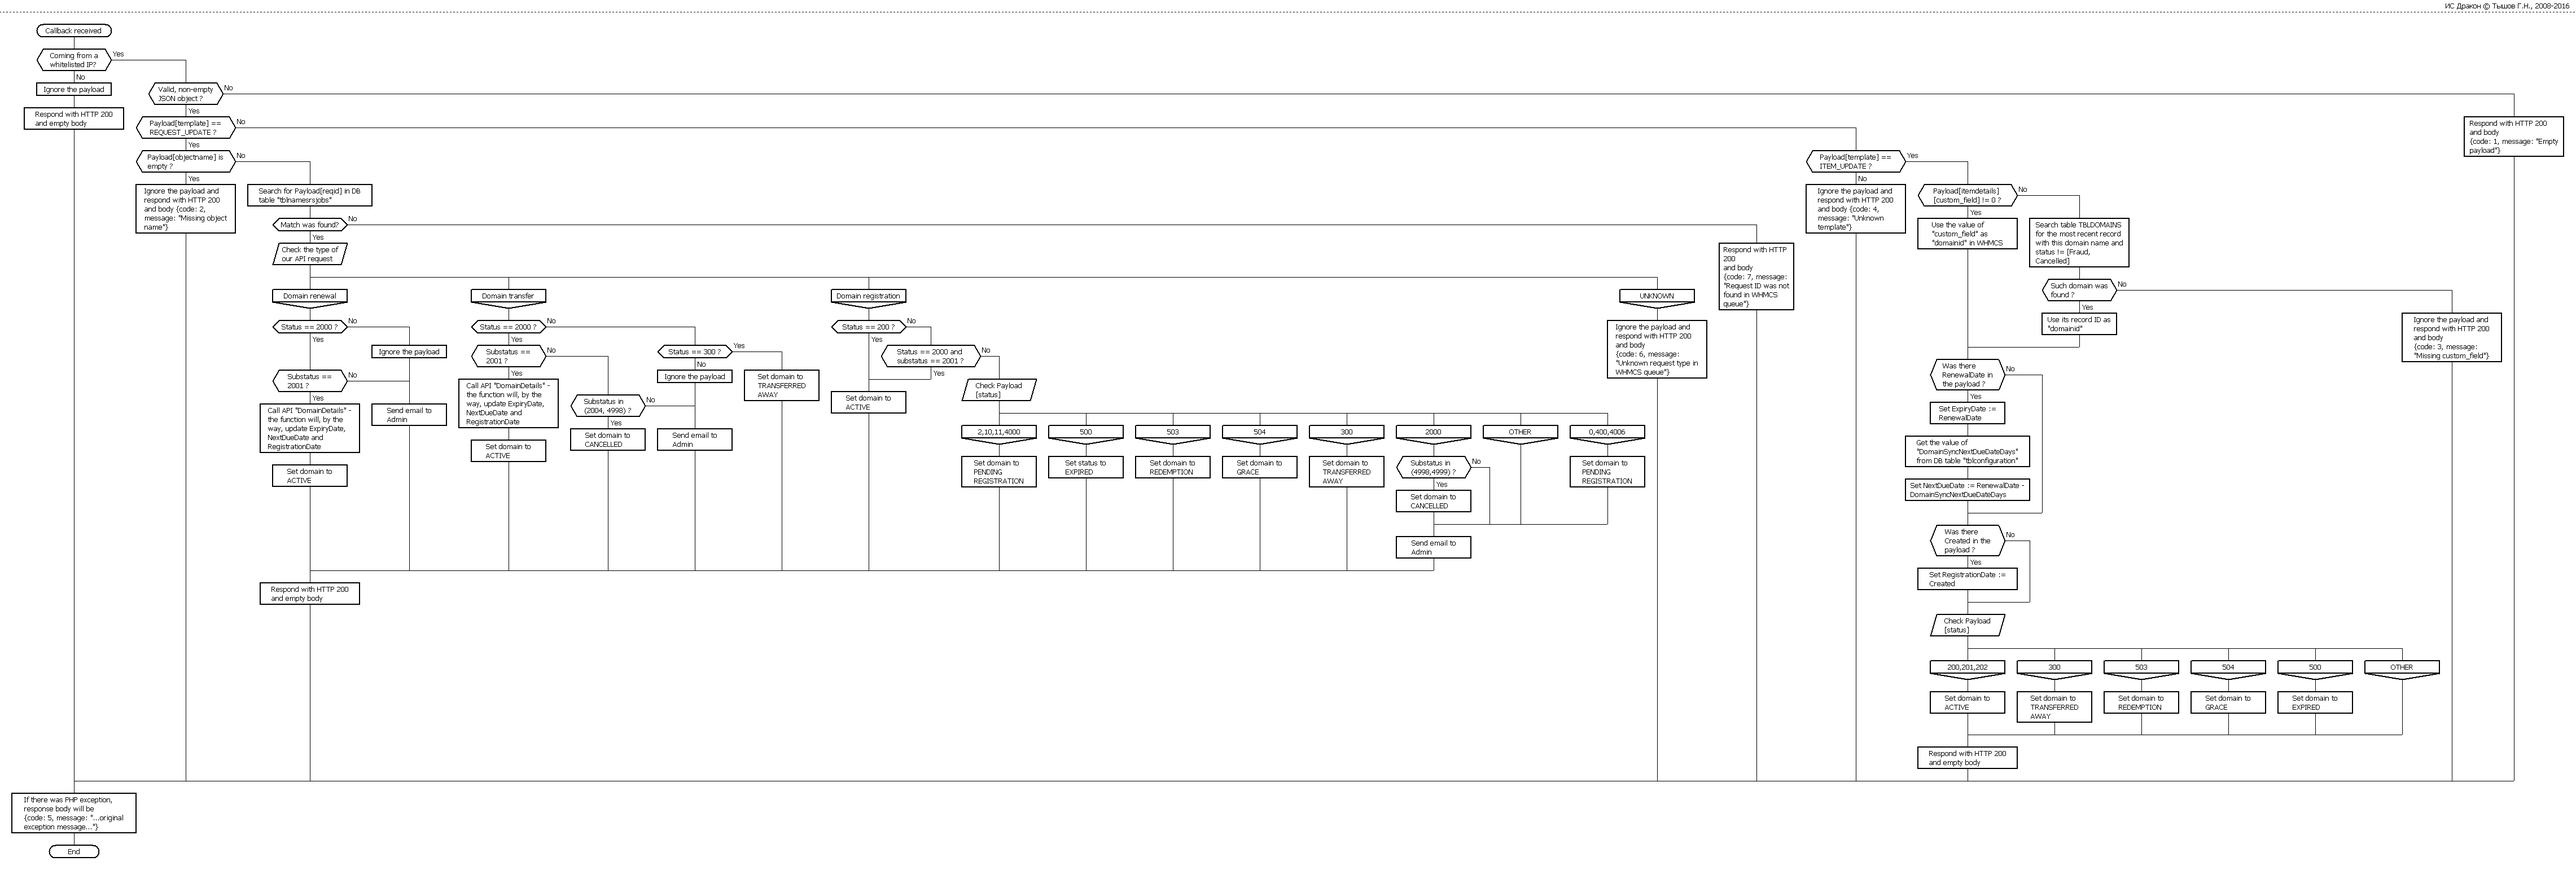
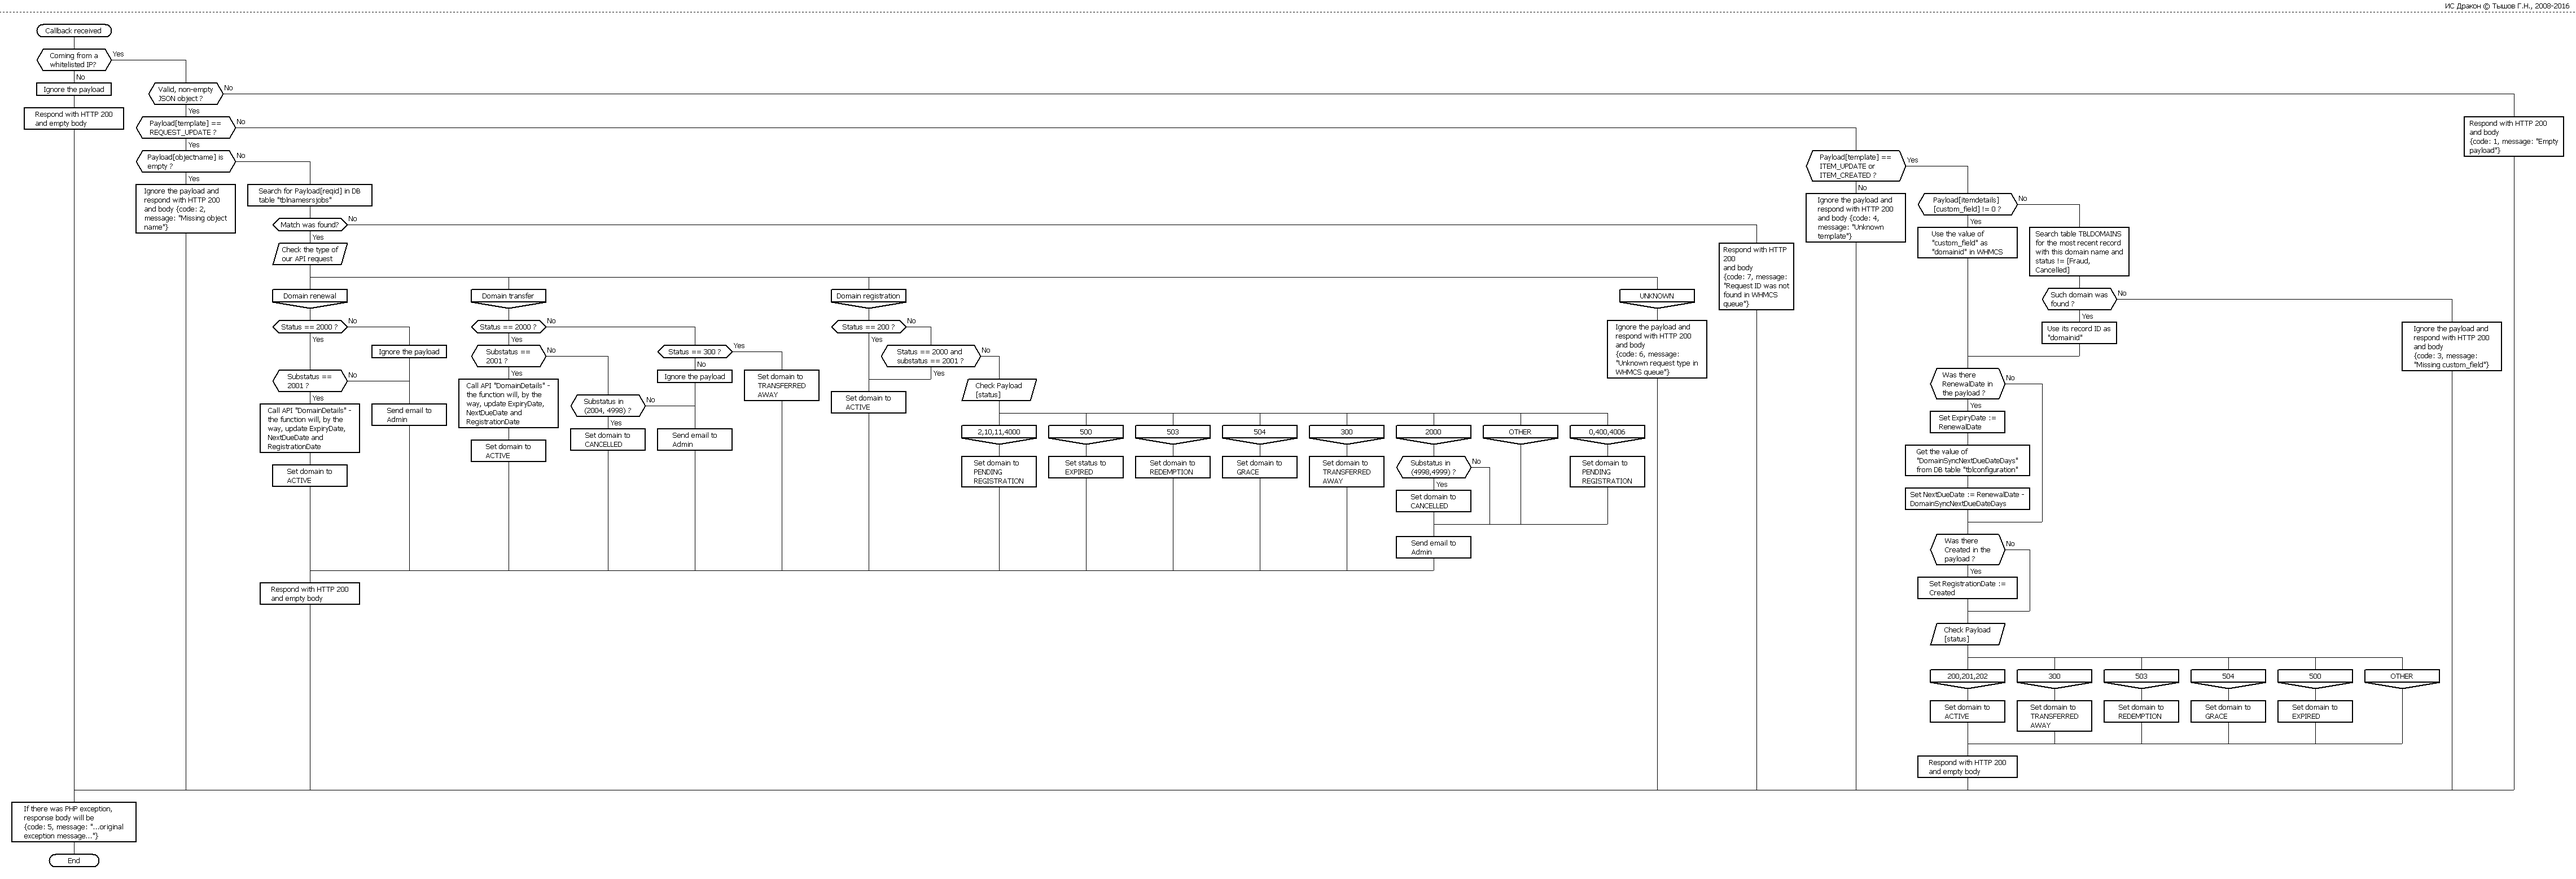
1) updated callback flow chart 2) updated CallbackRenew.php and CallbackTransfer.php to recognize the Pending status in callbacks

diff --git a/modules/registrars/namesrs/callbacks/CallbackRegister.php b/modules/registrars/namesrs/callbacks/CallbackRegister.php
@@ -5,7 +5,7 @@ if($status == 200 OR ($status == 2000 AND $substatus == 2001))
   logModuleCall(
     'nameSRS',
     'callback_register_success',
-    $json,
+    json_encode($json,JSON_PRETTY_PRINT),
     'Main status = '.$status.', substatus = '.$substatus.', domain = '.$req['domain']
   );
   /** @var  $api  RequestSRS */
@@ -18,12 +18,12 @@ if($status == 200 OR ($status == 2000 AND $substatus == 2001))
   $values["domainid"] = $req['domain_id'];
   $values['status'] = 'Active';
   $results 	= localAPI($command, $values, $admin);
-  
+
   //Send notification to customer
 	$postData = array(
  		'messagename' => 'Domain Registration Confirmation',
 		'id' =>$req['domain_id']);
-	$results = localAPI('SendEmail', $postData, $admin);  
+	$results = localAPI('SendEmail', $postData, $admin);
 }
 elseif(in_array((int)$status, Array(2,10,11,4000)))
 {
@@ -31,7 +31,7 @@ elseif(in_array((int)$status, Array(2,10,11,4000)))
   logModuleCall(
     'nameSRS',
     'callback_register_waiting',
-    $json,
+    json_encode($json,JSON_PRETTY_PRINT),
     'Main status ('.$status.' = '.$status_name.'), substatus ('.$substatus.' = '.$substatus_name.'), domain = '.$req['domain']
   );
   domainStatus($req['domain_id'], 'Pending Registration');
@@ -42,7 +42,7 @@ elseif($status == 500 OR $status == 503 OR $status == 504)
   logModuleCall(
     'nameSRS',
     'callback_register_expired',
-    $json,
+    json_encode($json,JSON_PRETTY_PRINT),
     'Main status ('.$status.' = '.$status_name.'), substatus ('.$substatus.' = '.$substatus_name.'), domain = '.$req['domain']
   );
   switch($status)
@@ -64,7 +64,7 @@ elseif($status == 300)
   logModuleCall(
     'nameSRS',
     'callback_register_transferred',
-    $json,
+    json_encode($json,JSON_PRETTY_PRINT),
     'Main status ('.$status.' = '.$status_name.'), substatus ('.$substatus.' = '.$substatus_name.'), domain = '.$req['domain']
   );
   domainStatus($req['domain_id'], 'Transferred Away');
@@ -75,7 +75,7 @@ elseif($status == 2000 AND ($substatus == 4998 OR $substatus == 4999))
   logModuleCall(
     'nameSRS',
     'callback_register_rejected',
-    $json,
+    json_encode($json,JSON_PRETTY_PRINT),
     'Main status ('.$status.' = '.$status_name.'), substatus ('.$substatus.' = '.$substatus_name.'), domain = '.$req['domain']
   );
 
@@ -93,7 +93,7 @@ elseif($status == 4006 OR $status == 400 OR $status == 0)
   logModuleCall(
     'nameSRS',
     'callback_register_payment',
-    $json,
+    json_encode($json,JSON_PRETTY_PRINT),
     'Main status ('.$status.' = '.$status_name.'), substatus ('.$substatus.' = '.$substatus_name.'), domain = '.$req['domain']
   );
 
@@ -110,7 +110,7 @@ else
   logModuleCall(
     'nameSRS',
     'callback_register_unknownError',
-    $json,
+    json_encode($json,JSON_PRETTY_PRINT),
     'Main status ('.$status.' = '.$status_name.'), substatus ('.$substatus.' = '.$substatus_name.'), domain = '.$req['domain']
   );
   emailAdmin("NameSRS Status", array(

diff --git a/modules/registrars/namesrs/callbacks/CallbackTransfer.php b/modules/registrars/namesrs/callbacks/CallbackTransfer.php
@@ -8,7 +8,7 @@ if($status == 2000)
     logModuleCall(
       'nameSRS',
       'callback_transfer_success',
-      $json,
+      json_encode($json,JSON_PRETTY_PRINT),
       'Main status = 2000, substatus == 2001, domain = '.$req['domain']
     );
 
@@ -26,7 +26,7 @@ if($status == 2000)
   	$postData = array(
    		'messagename' => 'Domain Transfer Completed',
   		'id' =>$req['domain_id']);
-  	$results = localAPI('SendEmail', $postData, $admin);  
+  	$results = localAPI('SendEmail', $postData, $admin);
   }
   elseif($substatus == 2004 OR $substatus == 4998)
   {
@@ -34,16 +34,16 @@ if($status == 2000)
     logModuleCall(
       'namesrs',
       'callback_transfer_failed',
-      $json,
+      json_encode($json,JSON_PRETTY_PRINT),
       'Main status = 2000, substatus = '.$substatus.', domain = '.$req['domain']
     );
     domainStatus($req['domain_id'], 'Cancelled');
-    
+
     //Send notification to customer
   	$postData = array(
    		'messagename' => 'Domain Transfer Failed',
   		'id' =>$req['domain_id']);
-  	$results = localAPI('SendEmail', $postData, $admin);  
+  	$results = localAPI('SendEmail', $postData, $admin);
   }
   else
   {
@@ -67,18 +67,18 @@ elseif($status == 300)
   logModuleCall(
     'nameSRS',
     'callback_transfer_away',
-    $json,
+    json_encode($json,JSON_PRETTY_PRINT),
     'Main status ('.$status.' = '.$status_name.'), substatus ('.$substatus.' = '.$substatus_name.'), domain = '.$req['domain']
   );
   domainStatus($req['domain_id'], 'Transferred Away');
 }
 elseif($status == 4000)
 {
-  //Transfer failed because authcode is bad or empy
+  //Transfer failed because authcode is bad or empty
   logModuleCall(
     'nameSRS',
     'callback_transfer_authcode',
-    $json,
+    json_encode($json,JSON_PRETTY_PRINT),
     'Main status ('.$status.' = '.$status_name.'), substatus ('.$substatus.' = '.$substatus_name.'), domain = '.$req['domain']
   );
   domainStatus($req['domain_id'], 'Cancelled');
@@ -87,7 +87,18 @@ elseif($status == 4000)
 	$postData = array(
  		'messagename' => 'Domain Transfer Failed',
 		'id' =>$req['domain_id']);
-	$results = localAPI('SendEmail', $postData, $admin);  
+	$results = localAPI('SendEmail', $postData, $admin);
+}
+elseif($status == 1)
+{
+  // Pending
+  logModuleCall(
+    'nameSRS',
+    'callback_transfer_pending',
+    json_encode($json,JSON_PRETTY_PRINT),
+    'Main status ('.$status.' = '.$status_name.'), substatus ('.$substatus.' = '.$substatus_name.'), domain = '.$req['domain']
+  );
+  domainStatus($req['domain_id'], 'Pending Transfer');
 }
 else
 {

diff --git a/modules/registrars/namesrs/callback.php b/modules/registrars/namesrs/callback.php
@@ -45,8 +45,7 @@ if (in_array($remoteIP, [
   logModuleCall(
     'nameSRS',
     "Callback received from " . $_SERVER['REMOTE_ADDR'],
-    $json,
-    $payload
+    json_encode($json,JSON_PRETTY_PRINT)
   );
   $account = "namesrs";
   $cfg = getRegistrarConfigOptions($account);
@@ -92,7 +91,7 @@ if (in_array($remoteIP, [
             logModuleCall(
               'nameSRS',
               "Unknown request type (" . $req['method'] . ") in the WHMCS queue",
-              $req,
+              json_encode($req,JSON_PRETTY_PRINT),
               ''
             );
         }
@@ -115,7 +114,7 @@ if (in_array($remoteIP, [
       logModuleCall(
         'nameSRS',
         "Missing object name",
-        $json,
+        json_encode($json,JSON_PRETTY_PRINT),
         ''
       );
     }
@@ -148,7 +147,7 @@ if (in_array($remoteIP, [
         logModuleCall(
           'nameSRS',
           $msg,
-          $json,
+          json_encode($json,JSON_PRETTY_PRINT),
           ''
         );
         die;
@@ -259,7 +258,7 @@ if (in_array($remoteIP, [
     logModuleCall(
       'nameSRS',
       "Callback IGNORED from " . $_SERVER['REMOTE_ADDR'],
-      $json,
+      json_encode($json,JSON_PRETTY_PRINT),
       'Template is not recognized'
     );
   }

diff --git a/modules/registrars/namesrs/callbacks/CallbackRenew.php b/modules/registrars/namesrs/callbacks/CallbackRenew.php
@@ -7,7 +7,7 @@ if($status == 2000)
     logModuleCall(
       'nameSRS',
       'callback_renewal_failed',
-      $json,
+      json_encode($json,JSON_PRETTY_PRINT),
       'Main status = 2000, substatus != 2001, domain = '.$req['domain']
     );
     emailAdmin("Domain Renewal Failed", array(
@@ -24,7 +24,7 @@ if($status == 2000)
       'nameSRS',
       'callback_renewal_success',
       'domain = '.$req['domain'],
-      $json
+      json_encode($json,JSON_PRETTY_PRINT)
     );
 
     /** @var  $api  RequestSRS */
@@ -38,6 +38,17 @@ if($status == 2000)
     $values['status'] = 'Active';
     localAPI($command, $values, $admin);
   }
+}
+elseif($status == 1)
+{
+  // Pending
+  logModuleCall(
+    'nameSRS',
+    'callback_renewal_pending',
+    json_encode($json,JSON_PRETTY_PRINT),
+    'Main status ('.$status.' = '.$status_name.'), substatus ('.$substatus.' = '.$substatus_name.'), domain = '.$req['domain']
+  );
+  domainStatus($req['domain_id'], 'Pending');
 }
 else
 {

diff --git a/modules/addons/namesrs_price/version.php b/modules/addons/namesrs_price/version.php
@@ -1,1 +1,1 @@
-<?php define('VERSION',53); define('STAMP','16 Dec 2020, 12:21'); 
+<?php define('VERSION',54); define('STAMP','22 Dec 2020, 10:00'); 

diff --git a/modules/registrars/namesrs/version.php b/modules/registrars/namesrs/version.php
@@ -1,1 +1,1 @@
-<?php define('VERSION',53); define('STAMP','16 Dec 2020, 12:21'); 
+<?php define('VERSION',54); define('STAMP','22 Dec 2020, 10:00'); 

diff --git a/modules/servers/namesrsowner/version.php b/modules/servers/namesrsowner/version.php
@@ -1,1 +1,1 @@
-<?php define('VERSION',53); define('STAMP','16 Dec 2020, 12:21'); 
+<?php define('VERSION',54); define('STAMP','22 Dec 2020, 10:00'); 

diff --git a/README.md b/README.md
@@ -1,4 +1,4 @@
-# WHMCS modules from NameSRS - version 53 (16 Dec 2020, 12:21)
+# WHMCS modules from NameSRS - version 54 (22 Dec 2020, 10:00)
 -----
 # NOTE 1
 ```
